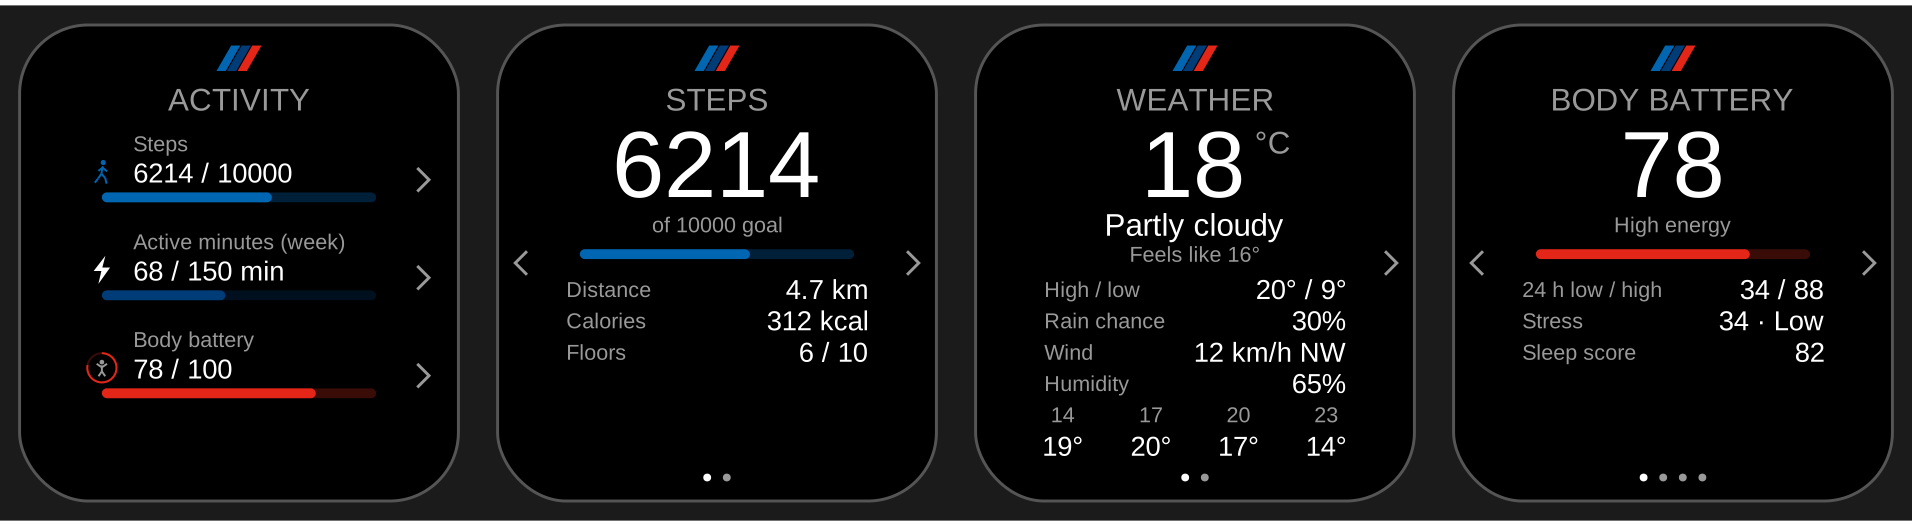
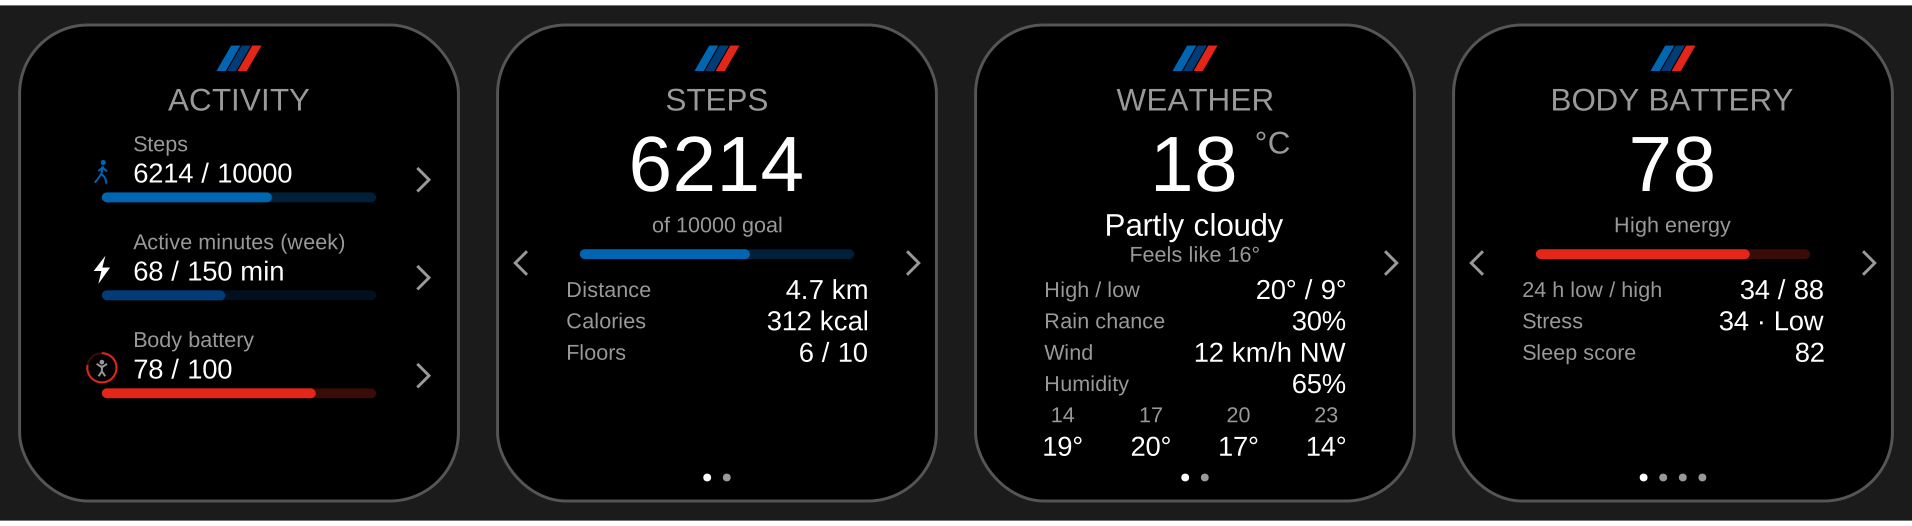
Make the headline number size a token (vector font, 80 px)
Claude-Session: https://claude.ai/code/session_01CEiR5mX4CwQUtKoZKTxSUA

Changed region(s): [[0.3086, 0.2433, 0.432, 0.3954], [0.5863, 0.2433, 0.648, 0.3954], [0.8332, 0.2433, 0.9257, 0.3954]]

diff --git a/tools/wireframes.py b/tools/wireframes.py
@@ -92,7 +92,7 @@ DIM = {BLUE: BLUE_DIM, NAVY: NAVY_DIM, RED: RED_DIM}
 METRIC = {"steps": BLUE, "active": NAVY, "body": RED, "hr": RED, "weather": RED, "temp": RED, "stress": RED}
 
 # pixel sizes per Theme font role: the vector font sizes the watch face uses (hero: the system numerals)
-FONT_PX = {"label": num("FONT_PX_LABEL"), "value": num("FONT_PX_VALUE"), "title": num("FONT_PX_TITLE"), "hero": 96}
+FONT_PX = {"label": num("FONT_PX_LABEL"), "value": num("FONT_PX_VALUE"), "title": num("FONT_PX_TITLE"), "hero": num("FONT_PX_HERO")}
 
 # ---------------------------------------------------------------- screen
 W, H = 448, 486
